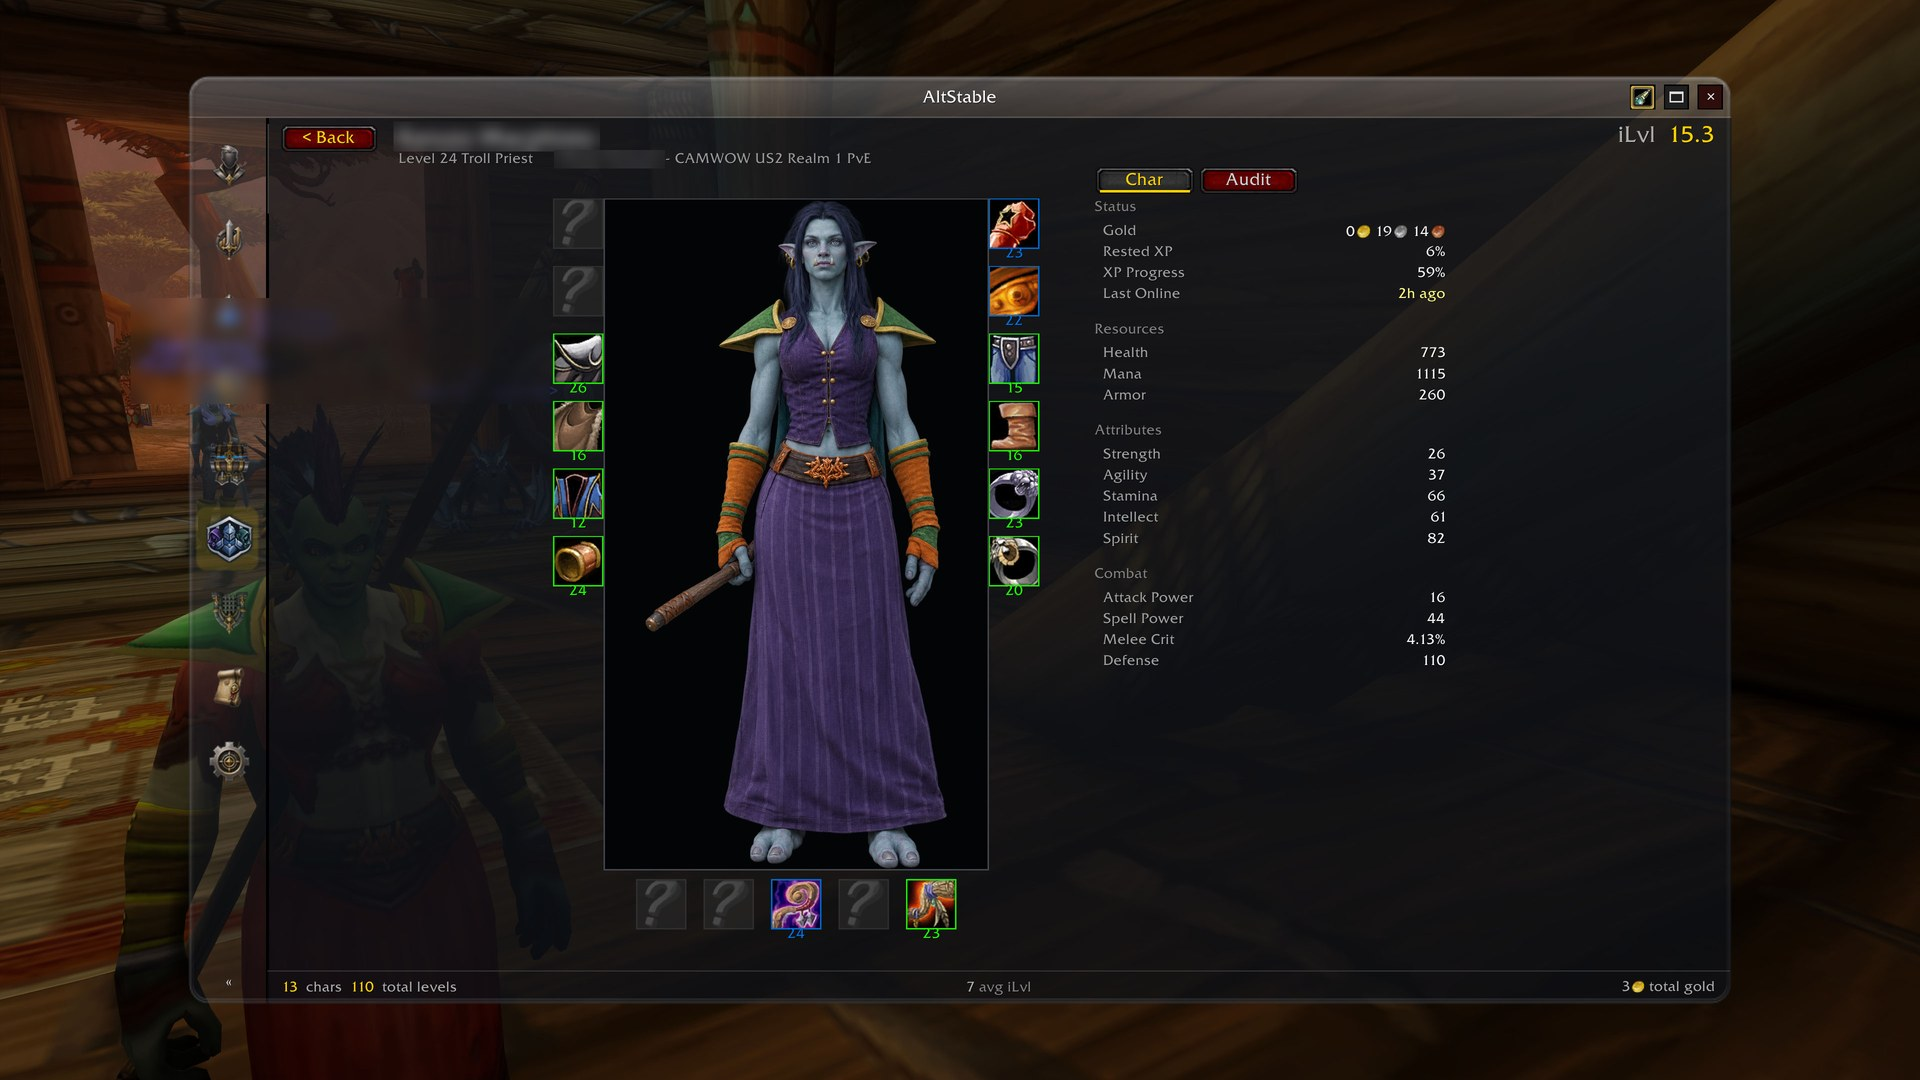
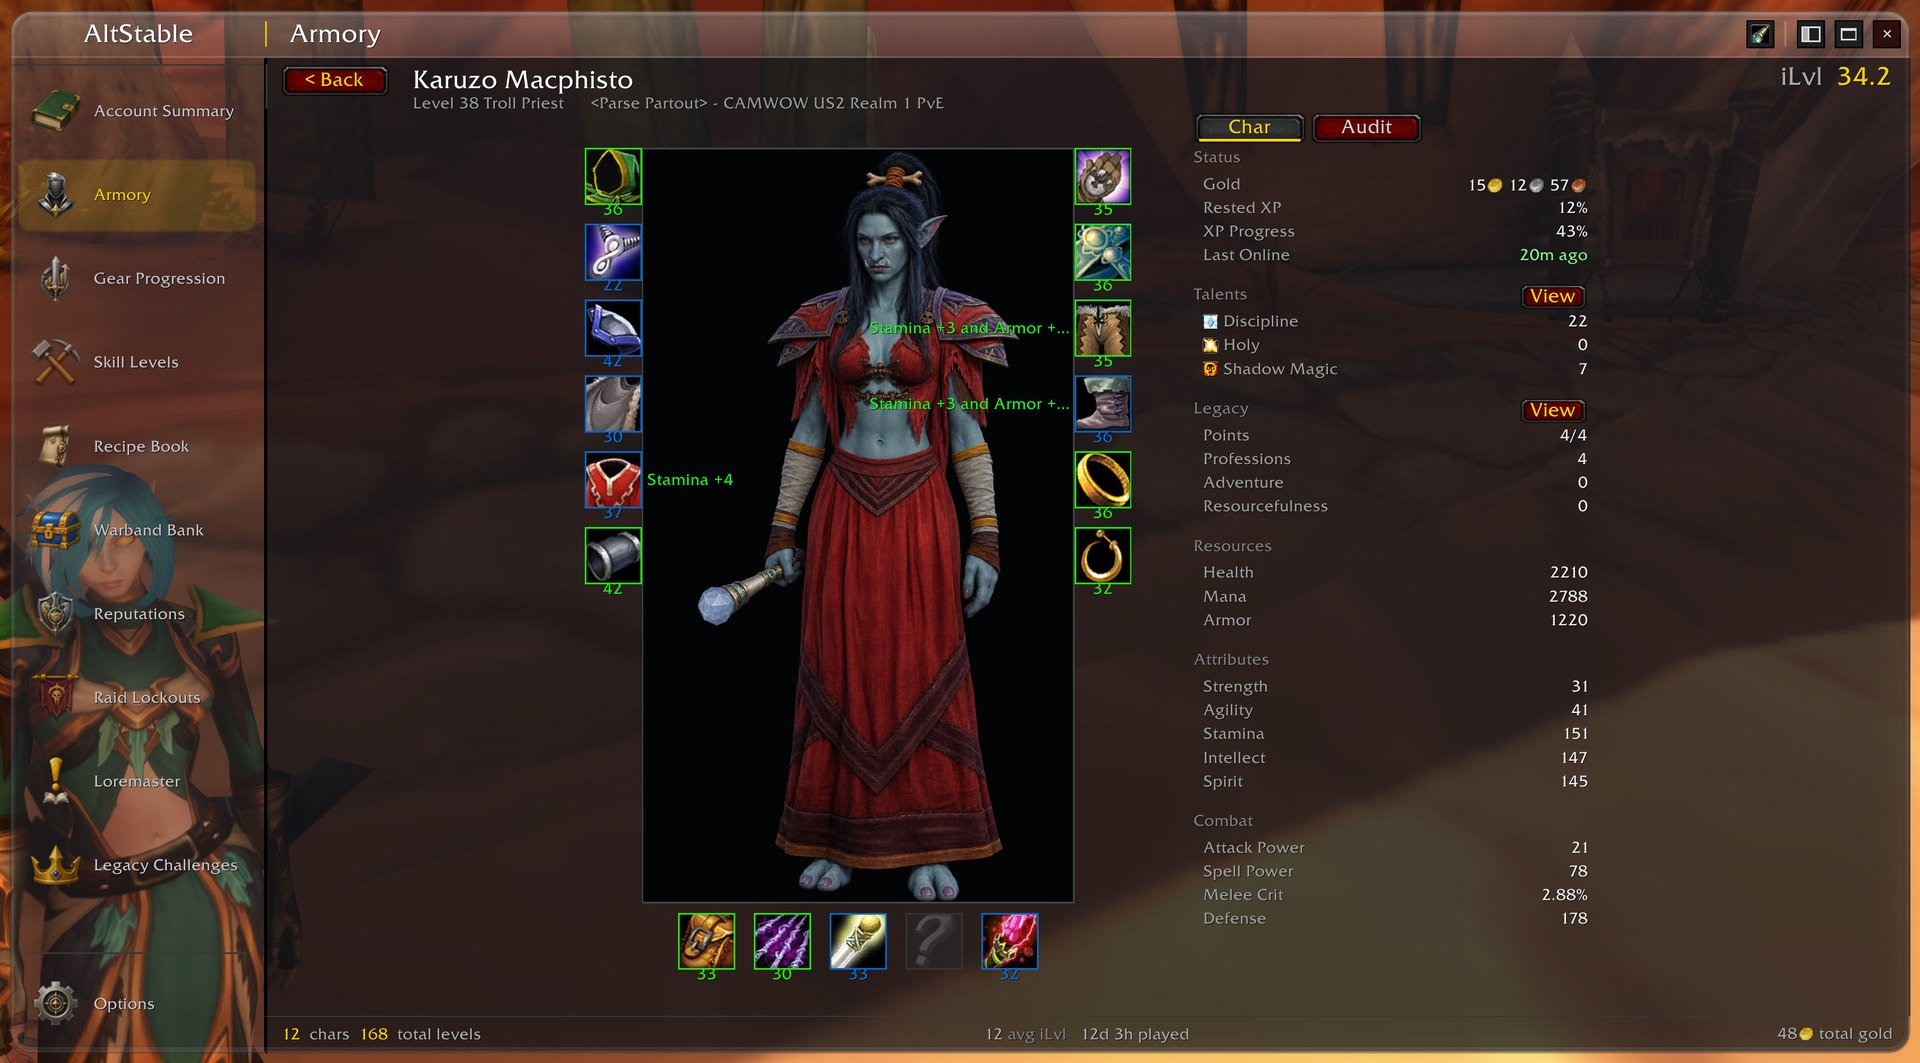
README: the character pane retaken, with its talents and Legacy talents

diff --git a/README.md b/README.md
@@ -279,7 +279,7 @@ as they were when it was last played.
 
 *Character cards. A character without a portrait gets a plain card with its class icon.*
 
-![A character opened from the Armory: its portrait with the equipped gear around it, and its gold, rested XP, health, mana, attributes and combat stats](https://raw.githubusercontent.com/Spotnick2/AltStable/main/docs/images/roster-character.jpg)
+![A character opened from the Armory: its portrait with the equipped gear around it, and its gold, rested XP, talents, Legacy talents, health, mana, attributes and combat stats](https://raw.githubusercontent.com/Spotnick2/AltStable/main/docs/images/roster-character.jpg)
 
 *Click a character for its paper doll and stats. The Audit tab beside Char lists its enchants.*
 
